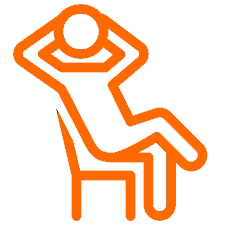
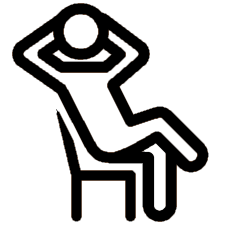
css / imgs
css
-Updated and organized css
-remove steps_list div
-change all ul's to divs
-implemented colors based off concept sheet
html
-updated paragraph layout
-updated steps layout
misc
-updated images (not final)

Changed region(s): [[0.0311, 0.0, 0.9333, 0.9956]]

diff --git a/final_website/html/about.html b/final_website/html/about.html
@@ -10,53 +10,64 @@
 	<body>
 		<div id="banner_image_container">
 			<div id="banner_text_container">
-				<p id="banner_text">About Us</p>
+				<p id="banner_title">About Us</p>
+				<p id="banner_text">Experience an unforgettable vacation while having the comforts of home!</p>
 			</div>
 		</div>
 		<!--About Us Page Text-->
-		<div id="paragraph_text_container">
-			<h2>What We're About</h2>
-			<p>
-				Lorem ipsum dolor sit amet, consectetur adipiscing elit, sed do eiusmod tempor incididunt ut labore et dolore magna aliqua. Elementum eu facilisis sed odio morbi quis commodo odio aenean. Varius morbi enim nunc faucibus a pellentesque sit.
-			</p>
+		<div id="main_container">
+			<div id="paragraph_text_container">
+				<h2 id="paragraph_header">What We're About</h2>
+				<p>
+					Lorem ipsum dolor sit amet, consectetur adipiscing elit, sed do eiusmod tempor incididunt ut labore et dolore magna aliqua. Elementum eu facilisis sed odio morbi quis commodo odio aenean. Varius morbi enim nunc faucibus a pellentesque sit.
+				</p>
 
-			<h2>Who We Are</h2>
-			<p>
-			 Donec ultrices tincidunt arcu non sodales neque sodales ut. Feugiat in ante metus dictum at tempor. Egestas fringilla phasellus faucibus scelerisque eleifend. Suscipit adipiscing bibendum est ultricies integer quis auctor elit sed. Accumsan in nisl nisi scelerisque eu ultrices vitae. Viverra ipsum nunc aliquet bibendum enim facilisis. 
-			
-			<h2>Our Promise</h2>
-			<p>
-				In mollis nunc sed id semper risus in. Dolor sed viverra ipsum nunc aliquet bibendum enim facilisis gravida. Nibh nisl condimentum id venenatis a condimentum vitae sapien pellentesque. Augue interdum velit euismod in pellentesque. Eget lorem dolor sed viverra ipsum nunc aliquet. Nullam non nisi est sit amet facilisis magna.
-			</p>
-		</div>
-		<!--About Us Steps-->
-		<div id="steps_container">
-			<ul id="steps_list">
+				<h2 id="paragraph_header">Who We Are</h2>
+				<p>
+				 Donec ultrices tincidunt arcu non sodales neque sodales ut. Feugiat in ante metus dictum at tempor. Egestas fringilla phasellus faucibus scelerisque eleifend. Suscipit adipiscing bibendum est ultricies integer quis auctor elit sed. Accumsan in nisl nisi scelerisque eu ultrices vitae. Viverra ipsum nunc aliquet bibendum enim facilisis. 
+				
+				<h2 id="paragraph_header">Our Promise</h2>
+				<p>
+					In mollis nunc sed id semper risus in. Dolor sed viverra ipsum nunc aliquet bibendum enim facilisis gravida. Nibh nisl condimentum id venenatis a condimentum vitae sapien pellentesque. Augue interdum velit euismod in pellentesque. Eget lorem dolor sed viverra ipsum nunc aliquet. Nullam non nisi est sit amet facilisis magna.
+				</p>
+			</div>
+			<!--About Us Steps-->
+			<div id="steps_container">
 				<div id="steps">
-					<img id="steps_icon" src="resources/calender.png"></i>
+					<div id="steps_icon_container">
+						<img id="steps_icon" src="resources/calender.png"></i>
+					</div>
+					<h2 id="steps_title">Schedule</h2>
 					<p id="steps_text">
-						Schedule
+						Start scheduling for your retreat through our easy to use scheduling system.
 					</p>
 				</div>
 				<div id="steps">
-					<img id="steps_icon" src="resources/travel.png"></i>
+					<div id="steps_icon_container">
+						<img id="steps_icon" src="resources/travel.png"></i>
+					</div>
+					<h2 id="steps_title">Travel</h2>
 					<p id="steps_text">
-						Travel
+						Travel to your selected Vacation home on your own time, with no cancellation fees.
 					</p>
 				</div>
 				<div id="steps">
-					<img id="steps_icon" src="resources/relax.png"></i>
+					<div id="steps_icon_container">
+						<img id="steps_icon" src="resources/relax.png"></i>
+					</div>
+					<h2 id="steps_title">Relax</h2>
 					<p id="steps_text">
-						Relax
+						Begin your day(s) of relaxation within our luxurious vacation home!
 					</p>
 				</div>
-			</ul>
-		</div>
-		<!--About Us Page Text 2-->
-		<div id="paragraph_text_container">
-			<p id="paragraph_text">
-				Lorem ipsum dolor sit amet, consectetur adipiscing elit, sed do eiusmod tempor incididunt ut labore et dolore magna aliqua. Ut enim ad minim veniam, quis nostrud exercitation ullamco laboris nisi ut aliquip ex ea commodo consequat. Duis aute irure dolor in reprehenderit in voluptate velit esse cillum dolore eu fugiat nulla pariatur. Excepteur sint occaecat cupidatat non proident, sunt in culpa qui officia deserunt mollit anim id est laborum.
-			</p>
+			</div>
+				<!--About Us Page Text 2-->
+				<div id="paragraph_text_container">
+					<p id="paragraph_text">
+						Lorem ipsum dolor sit amet, consectetur adipiscing elit, sed do eiusmod tempor incididunt ut labore et dolore magna aliqua. Ut enim ad minim veniam, quis nostrud exercitation ullamco laboris nisi ut aliquip ex ea commodo consequat. Duis aute irure dolor in reprehenderit in voluptate velit esse cillum dolore eu fugiat nulla pariatur. Excepteur sint occaecat cupidatat non proident, sunt in culpa qui officia deserunt mollit anim id est laborum.
+					</p>
+				</div>
+			</div>
 		</div>
 	</body>
 	<!--include footer.html-->

diff --git a/final_website/html/css/about.css b/final_website/html/css/about.css
@@ -8,38 +8,56 @@ a:visited {
 }
 
 body {
-	padding: 0px;
-	margin: 0px;
+	color: #262626;
 	font-family: 'Verdana', Fallback, sans-serif;
+	margin: 0px;
+	padding: 0px;
+
 }
 
 p {
 	font-size: 16px;
 }
 
+#main_container {
+	border-radius: 15px;
+	border: 0px solid black;
+}
+
 /* About Us top image banner */
 #banner_image_container {
-	background-color: rgb(30,30,30);
 	background-position: center;
 	background-repeat: no-repeat;
 	background-size: cover;
-	position: relative;
-	width: 100vw;
+	width: 100%;
 	height: 20vh;
-	padding: 0px;
-	background-image: linear-gradient(rgba(0, 0, 0, 0.5), rgba(0, 0, 0, 0.5)), url("../resources/vac_house.jpg");
+	background-image: linear-gradient(#b5e2e390, #296d7090), url("../resources/vac_house.jpg");
 }
 
-/* About Us top image banners text */
-#banner_text {
-	text-align: center;
-	position: absolute;
-	top: 50%;
-	left: 50%;
-	transform: translate(-50%, -100%);
-	font-size: 50px;
-	color: white;
+#banner_text_container {
+	height: 100%;
+	margin: 0px;
+	width: 100%;
 }
+
+/* About Us top image banners lower text */
+#banner_text {
+	color: white;
+	font-size: 13px;
+	margin: 0px;
+	text-align: center;
+}
+
+/* About Us top image banners title */
+#banner_title {
+	color: white;
+	font-size: 50px;
+	margin: 0px;
+	padding: 8px;
+	padding-top: 50px;
+	text-align: center;
+}
+
 
 /* Footer */
 #footer_container {
@@ -63,14 +81,14 @@ p {
 
 /* Navigation Bar within header */
 #nav_list {
+	background-color: #f1f1f1;
+	border-bottom: 1px solid rgba(180,180,180,0.7);
 	display: inline-block;
 	list-style-type: none;
 	margin: 0;
 	padding: 1vh;
 	padding-top: 0px;
 	width: 100%;
-	background-color: #f1f1f1;
-	border-bottom: 1px solid rgba(180,180,180,0.7);
 }
 
 #nav_item {
@@ -102,45 +120,73 @@ p {
 	transition: width 0.5s ease;
 }
 
-/* If you hover over a navigation bar link, the line will transition in below it */
+/* If you hover over a navigation bar link, the #nav_line will transition in below it */
 #nav_item a:hover ~ div#nav_line {
 	width: 70%;
 }
 
+#paragraph_header {
+	color: white;
+	transform: skew(-25deg);
+	background: #9bd8da;
+	padding: 2px;
+	padding-left: 5vw;
+	margin: 20px 0 0 -20px;
+}
+
 /* Paragraph container */
 #paragraph_text_container {
-	padding-left: 5vw;
+	padding-left: 0vw;
 	padding-right: 5vw;
+}
+
+#paragraph_text_container p {
+	padding-left: 5vw;
 }
 
 /* Steps Container (schedule, travel, relax) */
 #steps_container {
-	padding: 0px;
-	margin: 0px;
 	text-align: center;
-	display: justify;
-}
-
-#steps_list {
-	display: table;
-	width: 100vw;
-	padding: 0px;
+	width: 100%;
 }
 
 #steps {
-	display: inline-block;
 	color: black;
+	display: inline-block;
 	text-align: center;
 	padding: 8px;
+	margin: 25px;
+	background-color: #ff6a30;
+	border: solid 2px #ff6a30;
+	border-radius: 15px;
 }
 
 #steps_icon {
-	width: 100px;
+	width: 85px;
+	top: 50%;
+}
+
+#steps_icon_container {
+	background-color: white;
+	border: solid 5px #ff6a30;
+	border-radius: 50%;
+	padding: 15px;
+	position: relative;
 }
 
 #steps_text {
-	font-size: 17px;
-	font-size: 2vh;
+	border-bottom: 1px solid #262626;
+	border-top: 1px solid #262626;
 	cursor: default;
-	color: #ff6a30;
+	font-size: 13px;
+	font-style: bold;
+	padding-bottom: 5px;
+	padding-top: 5px;
+	width: 150px;
+}
+
+#steps_title {
+	color: white;
+	margin-top: 2px;
+	padding-top: 2px;
 }
